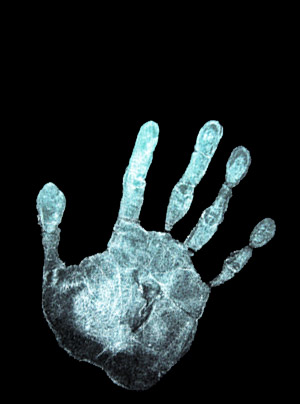
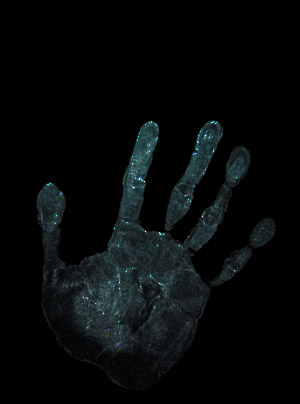
Darkened handprint and altered the CSS to point to the correct image

Changed region(s): [[0.12, 0.297, 0.93, 0.9802]]

diff --git a/static/css/master.css b/static/css/master.css
@@ -3,7 +3,7 @@
 * { font-family: Helvetica, Arial, sans-serif; }
 body { background: #333; }
 h1,h2,h3,h4,h5,h6 { color: #ccc; }
-div.container_12 { background: url('/static/img/crime_face.jpg') black bottom left no-repeat; }
+div.container_12 { background: url('/static/img/crime_hand.jpg') black bottom left no-repeat; }
 .clear_fix:after { content: "."; display: block; width: 100%; clear: both; visibility: hidden; height: 1px; }
 .float_right { float: right; }
 .align_right { text-align: right; }
